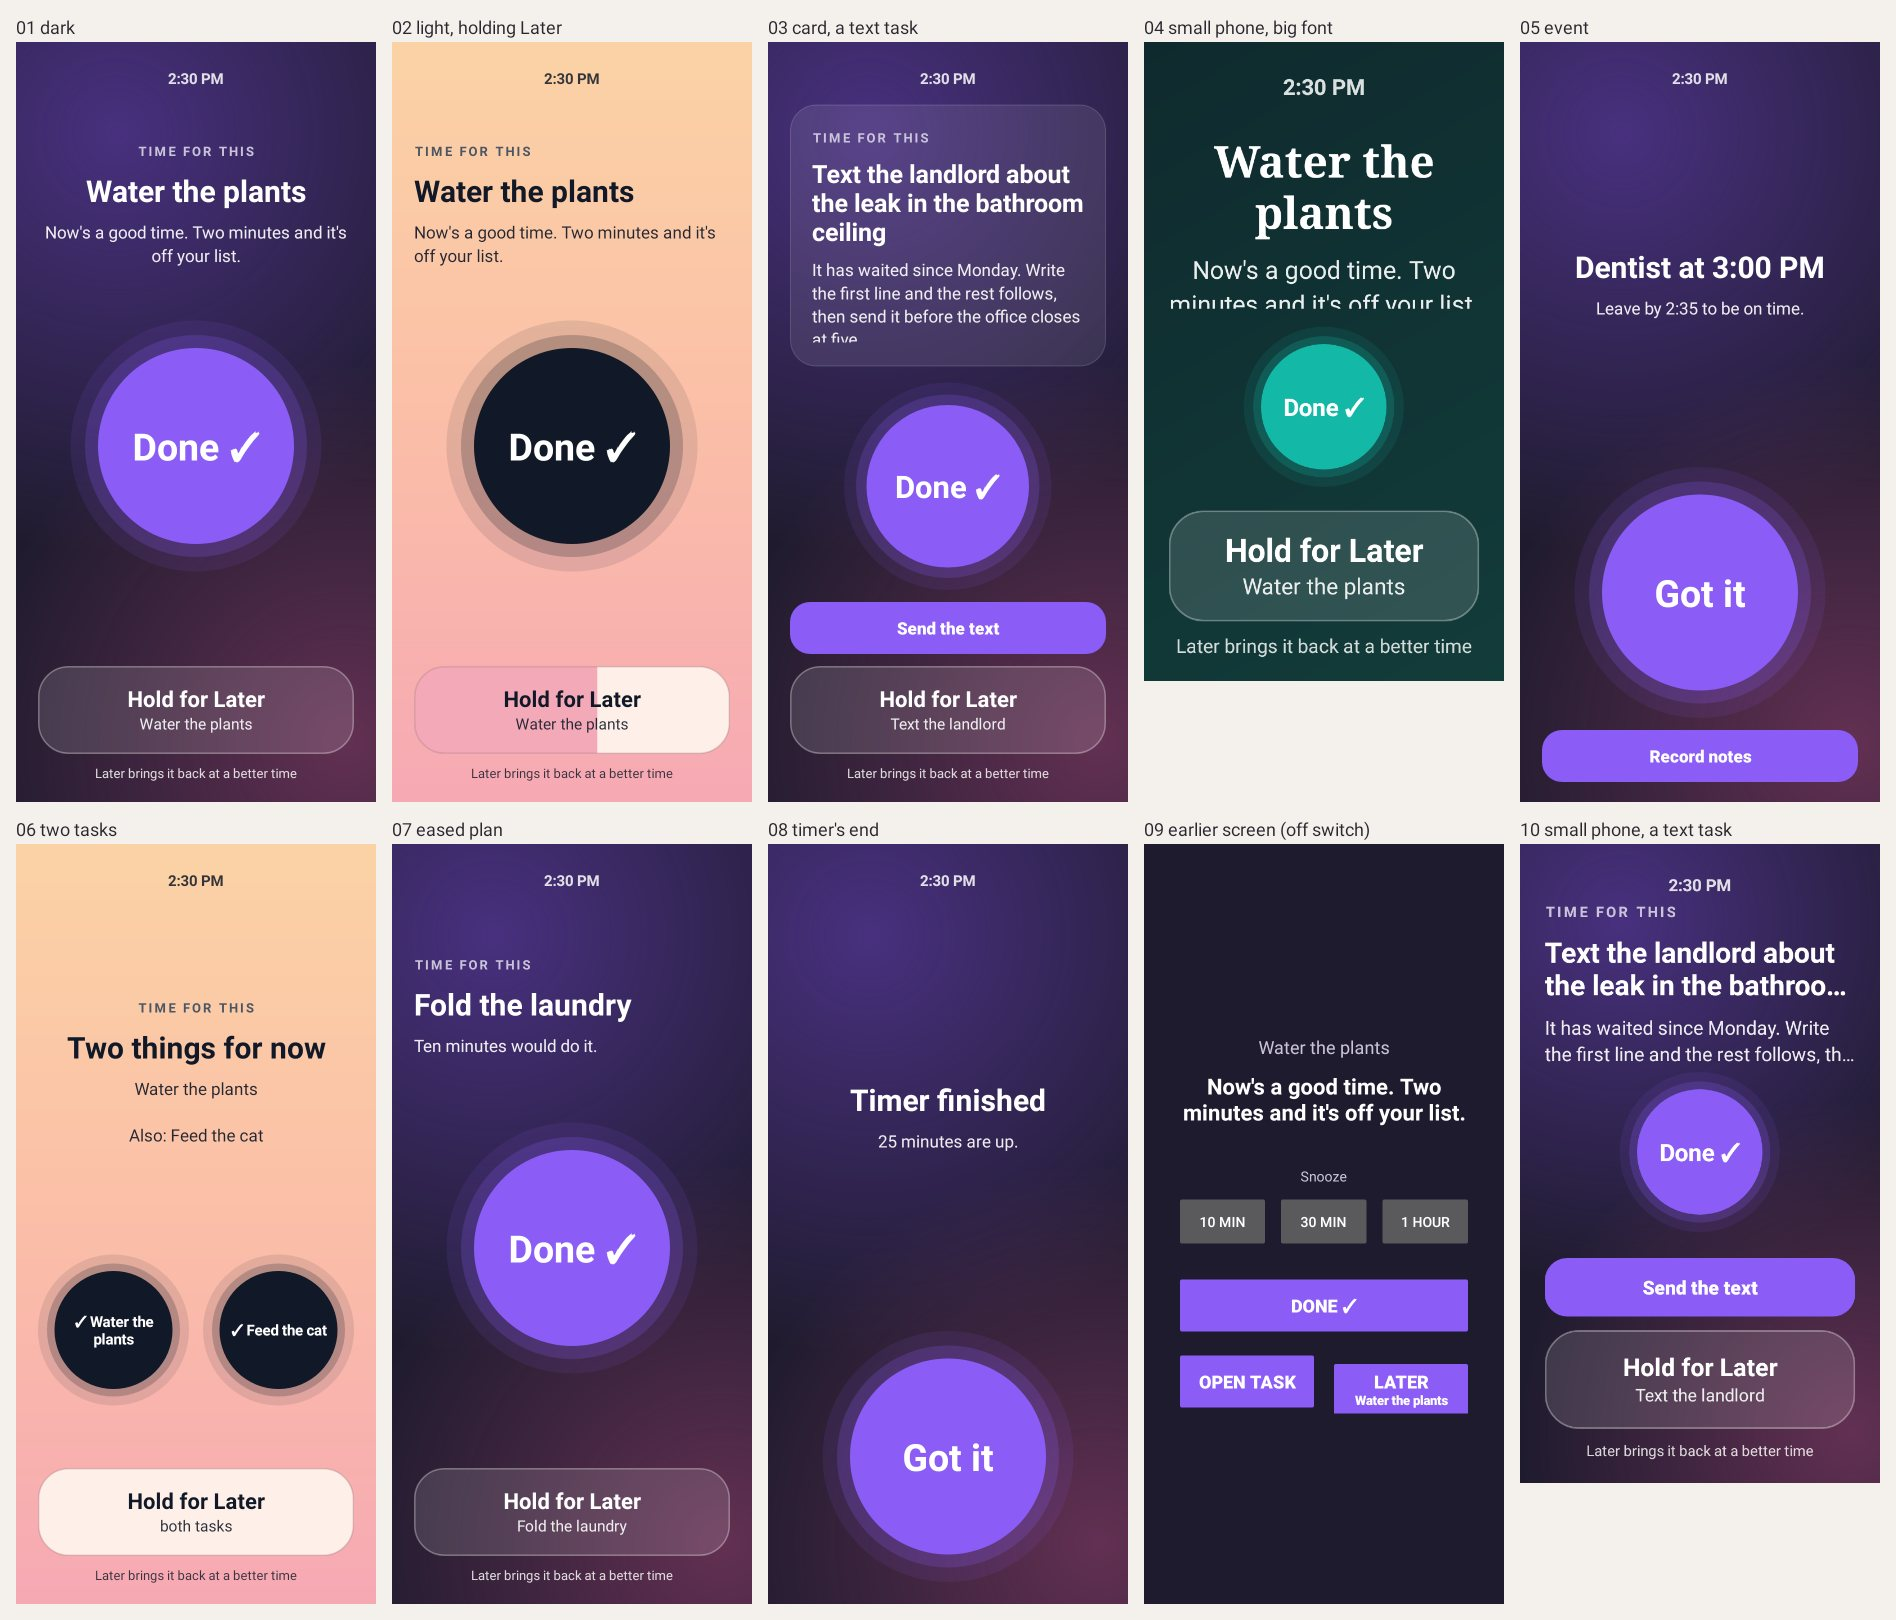
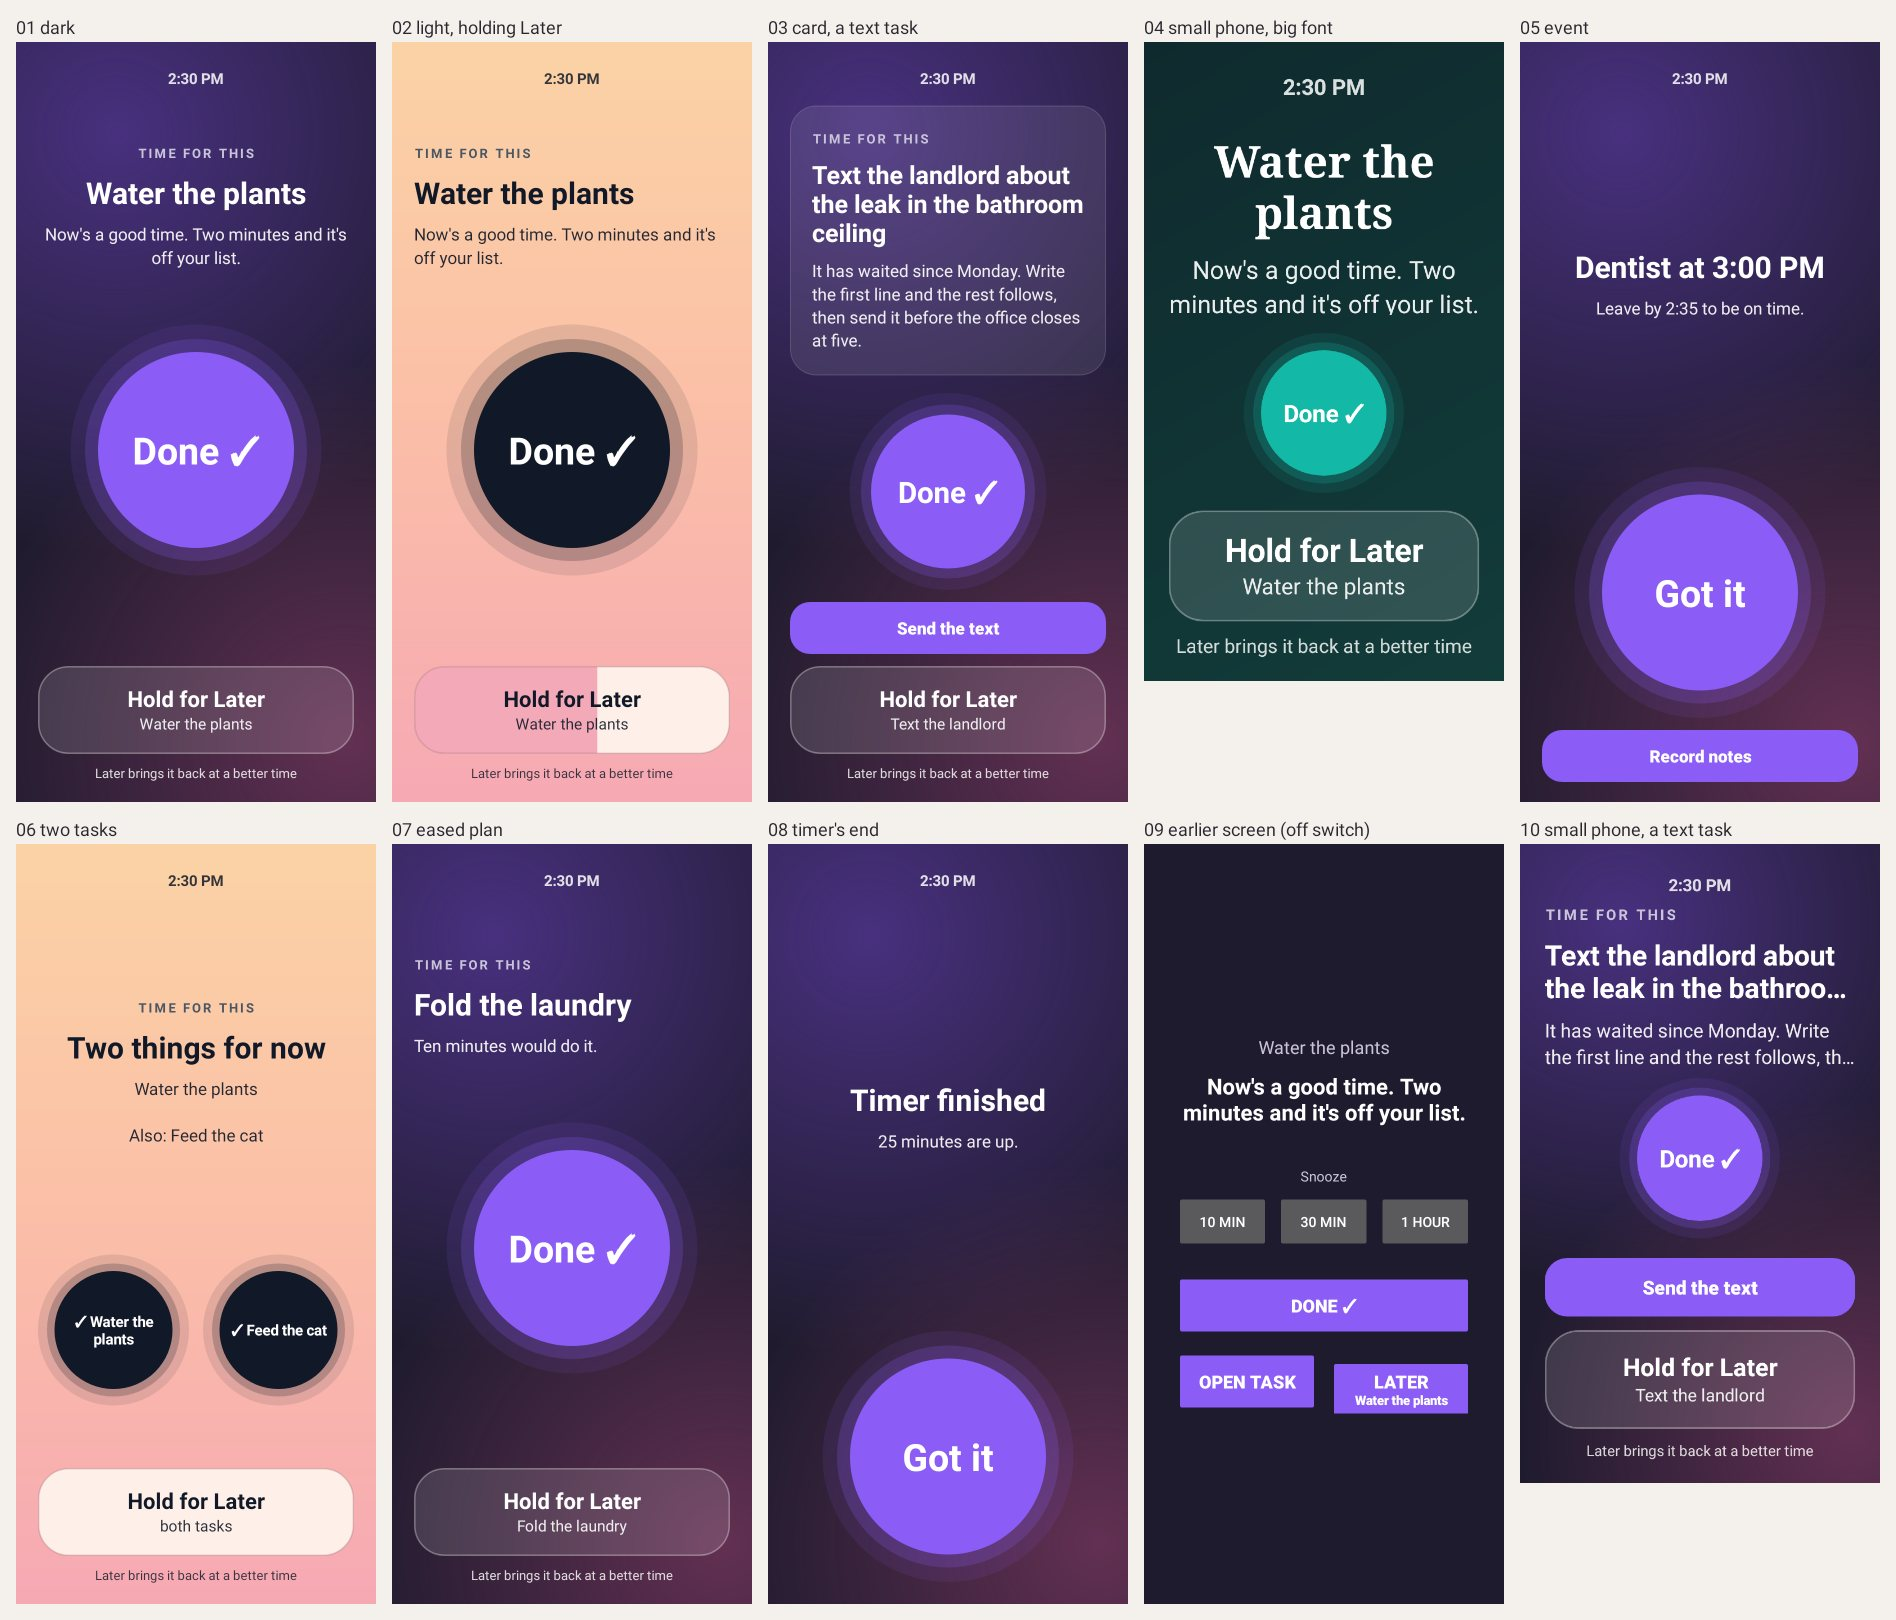
External agent changes

diff --git a/android/app/src/main/java/co/median/android/odxqpdy/AlarmActivity.java b/android/app/src/main/java/co/median/android/odxqpdy/AlarmActivity.java
@@ -680,6 +680,11 @@ public class AlarmActivity extends Activity {
         return Math.max(0.85f, Math.min(getResources().getConfiguration().fontScale, 1.5f));
     }
 
+    private static int spare(android.text.TextPaint p) {
+        android.graphics.Paint.FontMetricsInt m = p.getFontMetricsInt();
+        return Math.max(0, m.ascent - m.top) + Math.max(0, m.bottom - m.descent);
+    }
+
     private static int linesOf(CharSequence t, android.text.TextPaint paint, int width) {
         if (t == null || t.length() == 0 || width <= 0) {
             return 0;
@@ -728,8 +733,11 @@ public class AlarmActivity extends Activity {
         int gapBig = ((android.view.ViewGroup.MarginLayoutParams) big.getLayoutParams()).topMargin;
         int gapUnder = ((android.view.ViewGroup.MarginLayoutParams) under.getLayoutParams()).topMargin;
         CharSequence underText = under.getText();
-        int kickerH = kicker.getLineHeight() + gapBig;
+        // Each block of text also takes the font's spare room above its first
+        // line and below its last (spare), or its last line gets cut.
+        int kickerH = kicker.getLineHeight() + gapBig + spare(kicker.getPaint());
         int underLH = under.getLineHeight();
+        int underSpare = spare(under.getPaint());
         int underN = linesOf(underText, under.getPaint(), width);
         // The title at its own size, then a little smaller if it would be cut.
         float[] sizes = { 30f * d * fontCap(), 25f * d * fontCap() };
@@ -744,17 +752,18 @@ public class AlarmActivity extends Activity {
             android.text.TextPaint paint = new android.text.TextPaint(big.getPaint());
             paint.setTextSize(sizes[i]);
             int bigLH = paint.getFontMetricsInt(null);
+            int bigSpare = spare(paint);
             int bigN = Math.max(1, linesOf(big.getText(), paint, width));
-            int want = pads + (kickerWanted ? kickerH : 0) + Math.min(bigN, 3) * bigLH
-                    + (underN > 0 ? gapUnder + Math.min(underN, 4) * underLH : 0);
-            int h = Math.max(pads + 2 * bigLH, Math.min(want, space - comfort));
+            int want = pads + (kickerWanted ? kickerH : 0) + Math.min(bigN, 3) * bigLH + bigSpare
+                    + (underN > 0 ? gapUnder + underSpare + Math.min(underN, 4) * underLH : 0);
+            int h = Math.max(pads + 2 * bigLH + bigSpare, Math.min(want, space - comfort));
             int r = Math.max(minRound, Math.min(maxRound, space - h));
             h = Math.max(space - r, Math.round(40f * d));
             int room = h - pads;
             boolean kk = kickerWanted;
             int tt = Math.min(bigN, 4);
             int uu = Math.min(underN, 6);
-            while ((kk ? kickerH : 0) + tt * bigLH + (uu > 0 ? gapUnder + uu * underLH : 0) > room) {
+            while ((kk ? kickerH : 0) + tt * bigLH + bigSpare + (uu > 0 ? gapUnder + underSpare + uu * underLH : 0) > room) {
                 if (uu > 3) {
                     uu--;
                 } else if (tt > 2) {
@@ -778,12 +787,12 @@ public class AlarmActivity extends Activity {
             round = r;
             wordsH = h;
             // What the lines that will actually show take, with the space around them.
-            wanted = pads + (kk ? kickerH : 0) + tt * bigLH + (uu > 0 ? gapUnder + uu * underLH : 0);
+            wanted = pads + (kk ? kickerH : 0) + tt * bigLH + bigSpare + (uu > 0 ? gapUnder + underSpare + uu * underLH : 0);
             if (tt >= Math.min(bigN, 4) && (underN == 0 || uu >= 1)) {
                 break;
             }
             if (i == sizes.length - 1 && !wordsBare && (tt < Math.min(bigN, 2) || (underN > 0 && uu == 0)
-                    || tt * bigLH > room)) {
+                    || tt * bigLH + bigSpare > room)) {
                 // Not even two lines of title and a line of words (a small
                 // phone with every button showing): the space around the
                 // words, and the glass card if this alarm drew it, go to the
